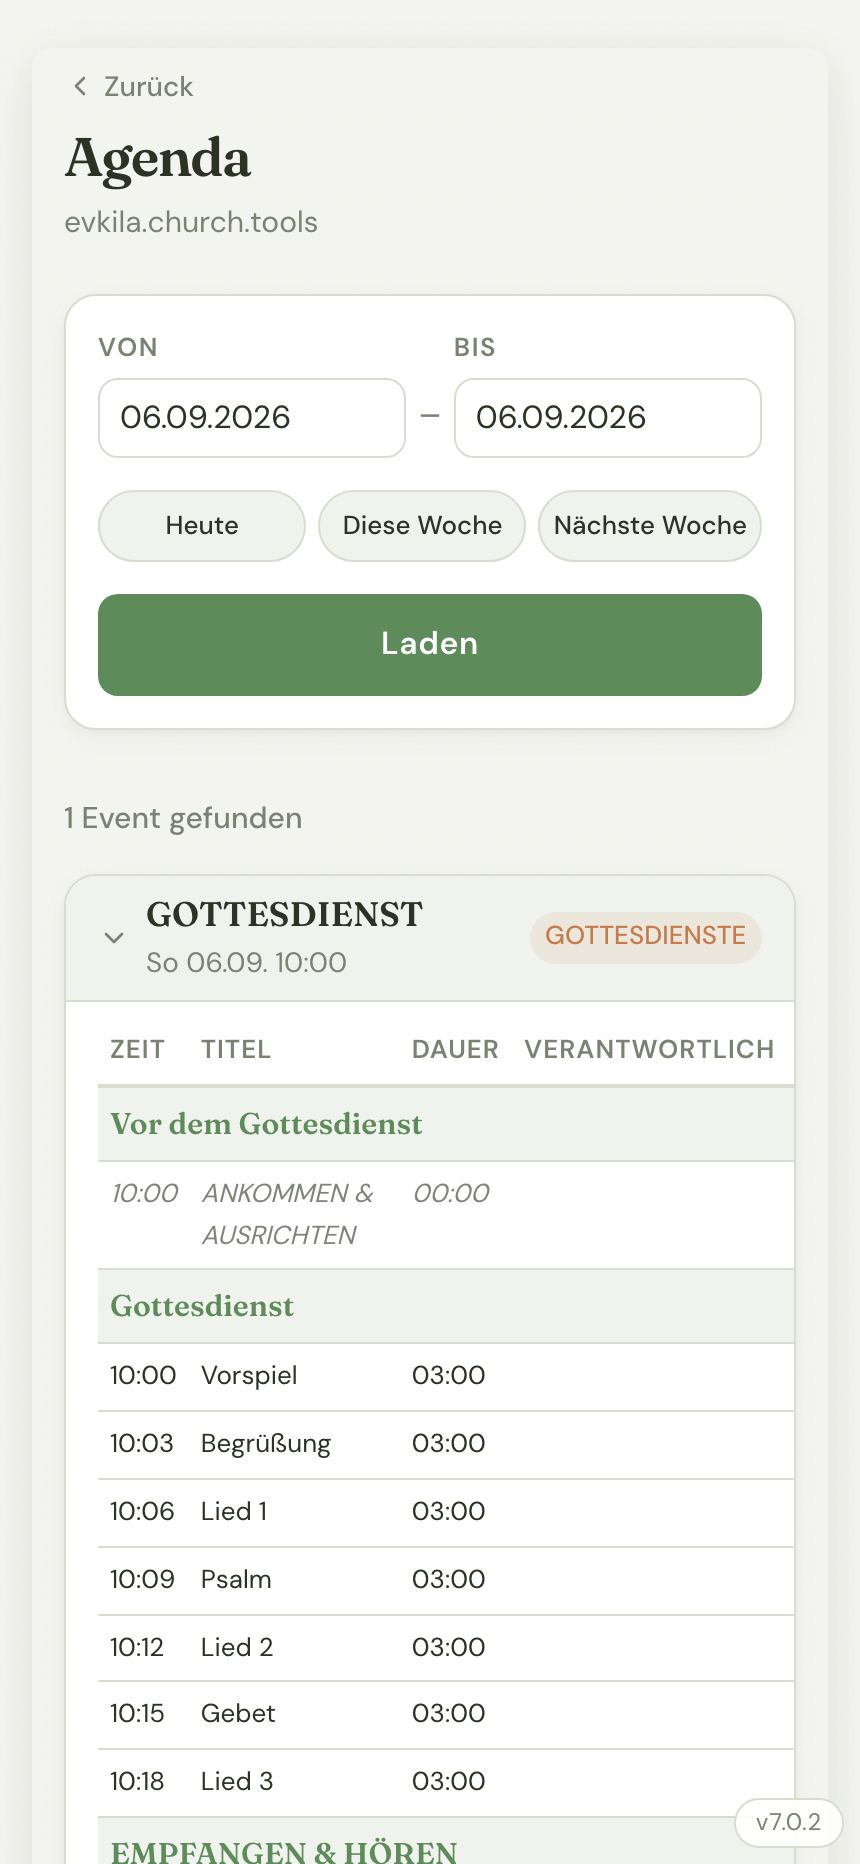
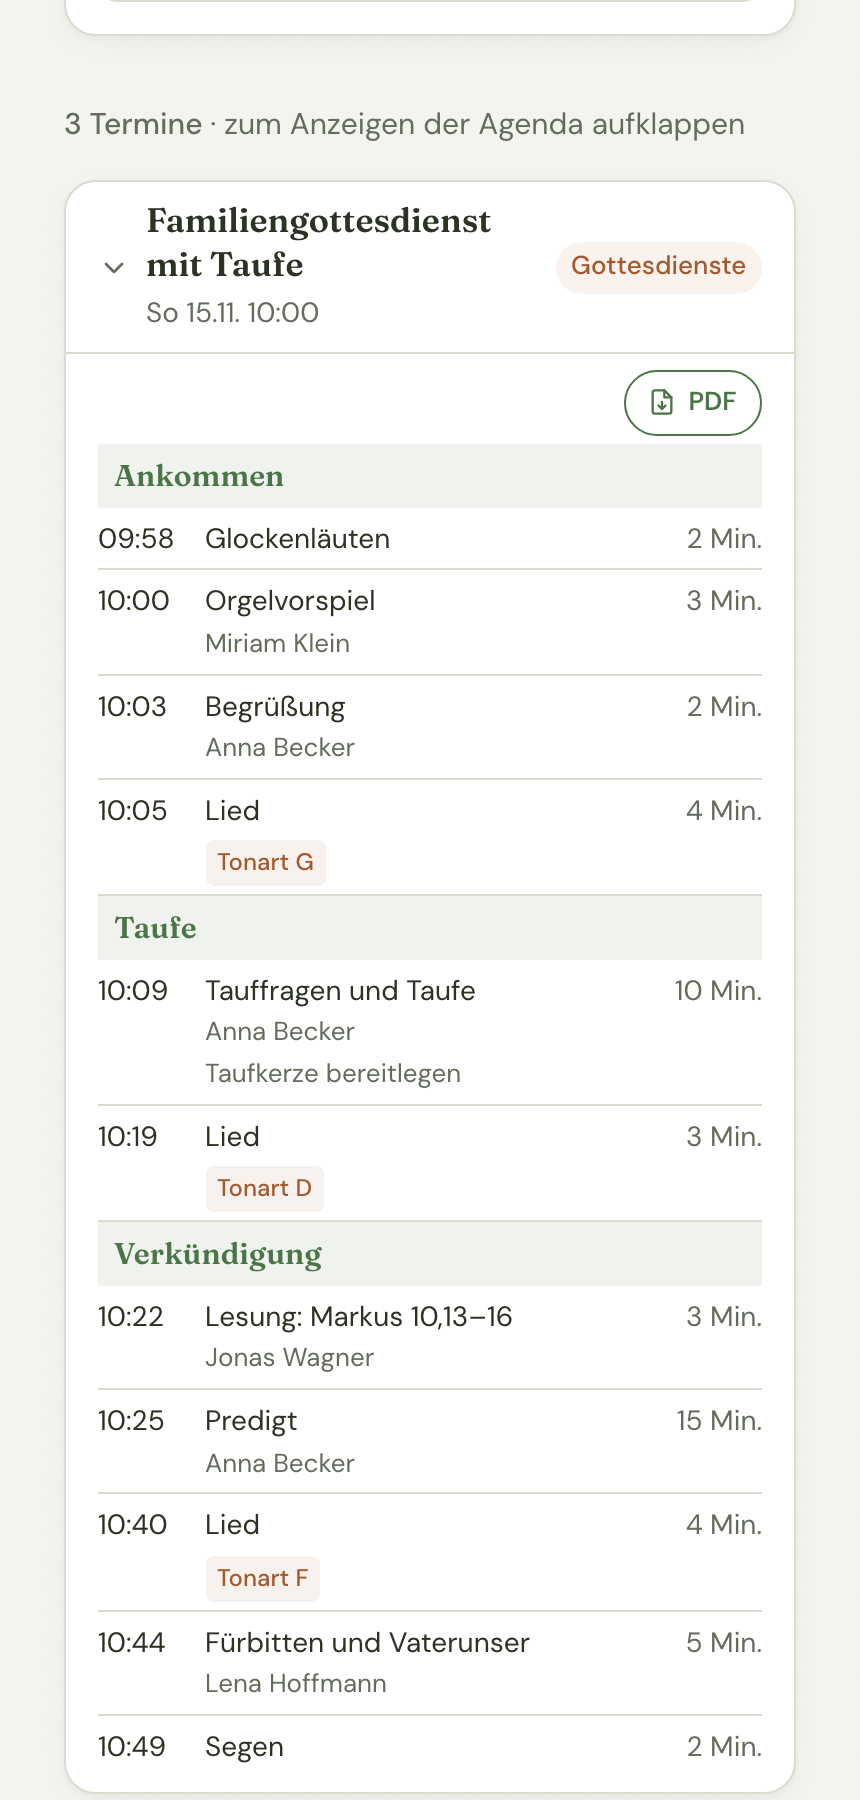
docs: restructure README, demo GIF and new screenshots from sample data
The old screenshots showed an outdated UI and real church data. The new
GIF and screenshots come from a local run against sample data, and the
example slide is readable at README size.

diff --git a/README.md b/README.md
@@ -1,30 +1,54 @@
-# ChurchTools API
+# ChurchTools Folien
 
 [![Test and Build](https://github.com/schowave/churchtools-api/actions/workflows/test-and-build.yml/badge.svg)](https://github.com/schowave/churchtools-api/actions/workflows/test-and-build.yml)
 [![Docker Image](https://img.shields.io/docker/v/schowave/churchtools?sort=semver&label=Docker%20Hub)](https://hub.docker.com/r/schowave/churchtools)
 [![Python 3.14+](https://img.shields.io/badge/python-3.14+-blue.svg)](https://www.python.org/downloads/)
 [![License](https://img.shields.io/github/license/schowave/churchtools-api)](LICENSE)
 
-A web application for creating styled announcement slides from [ChurchTools](https://www.church.tools/) calendar events — exported as PDF or JPEG for use in church services.
+Turn the appointments in your [ChurchTools](https://www.church.tools/) calendars into announcement slides for the service, and print agendas and rotas, without copying anything by hand. Log in with your ChurchTools account, pick a week and export PDF or JPEG.
 
 <p align="center">
-  <img src="docs/images/termin-folien.png" alt="Termin-Folien" width="220">
-  <img src="docs/images/agenda.png" alt="Agenda" width="220">
-  <img src="docs/images/dienstplan.png" alt="Dienstplan" width="220">
+  <img src="docs/images/demo.gif" alt="Loading a week of appointments, adding a custom text, adjusting the slide design and exporting the slides as PDF" width="580">
 </p>
-<p align="center">
-  <img src="docs/images/folie.jpg" alt="Beispiel-Folie" width="600">
-</p>
+
+## Contents
+
+- [Features](#features)
+- [Quick start](#quick-start)
+- [Configuration](#configuration)
+- [Deployment](#deployment)
+- [Security and privacy](#security-and-privacy)
+- [Development](#development)
+- [License](#license)
 
 ## Features
 
-- **Termin-Folien** — styled announcement slides from calendar appointments, exported as PDF or JPEG (ZIP), with custom colors, logo, and background image
-- **Agenda** — service rundowns (songs, items, responsible persons) per event, exportable as PDF
-- **Dienstplan** — who serves in which role per event, exportable as PDF per event
-- **Calendar selection** — choose one or more public calendars from your ChurchTools instance
+**Termin-Folien** (announcement slides). Loads the appointments of the chosen calendars and date range and lays them out as 16:9 slides, as many per slide as fit. You can:
 
+- leave out single appointments
+- replace the ChurchTools description with your own text for the slide; it is stored and comes back the next time the appointment is loaded
+- set the box, date and text colors and the box opacity, and upload a background image and a logo, with a live preview
+- export a PDF, or a ZIP with one JPEG per slide for presentation software that does not take PDFs
 
-## Quick Start
+<p align="center">
+  <img src="docs/images/folie.jpg" alt="Example slide: two appointments with date, time, place, title and description on a light box over a green background image" width="720">
+</p>
+
+**Agenda.** Shows the service rundown of each event (songs with key, items with start time, duration and responsible persons) and exports it as PDF.
+
+**Dienstplan** (rota). Shows who serves in which role per event, highlights pending and unfilled services, and exports a PDF per event.
+
+<p align="center">
+  <img src="docs/images/agenda.png" alt="Agenda page: rundown of a family service with sections, times, songs and responsible persons" width="300">
+  &nbsp;&nbsp;
+  <img src="docs/images/dienstplan.png" alt="Dienstplan page: services of two events with accepted, pending and unfilled roles" width="300">
+</p>
+
+The interface is in German and works on phones as well as on desktops.
+
+## Quick start
+
+You need a ChurchTools instance and a login for it. The app reads the public calendars of that instance and the events you have access to.
 
 ### Docker (recommended)
 
@@ -36,9 +60,11 @@ docker run -d \
   schowave/churchtools:latest
 ```
 
-Open [http://localhost:5005](http://localhost:5005)
+Open [http://localhost:5005](http://localhost:5005) and log in with your ChurchTools credentials.
 
-### From Source
+### From source
+
+Requires [mise](https://mise.jdx.dev/), which installs Python and uv.
 
 ```bash
 git clone https://github.com/schowave/churchtools-api.git
@@ -50,6 +76,8 @@ mise run run
 ```
 
 ## Configuration
+
+All settings are environment variables.
 
 | Variable | Required | Default | Description |
 |---|---|---|---|
@@ -74,23 +102,7 @@ People without access get a clear message at login; sessions of people who lose 
 
 ## Deployment
 
-### Synology NAS
-
-1. Create a project folder on your NAS (e.g. `/volume1/docker/churchtools/`)
-2. Add the `docker-compose.yml` from this repository
-3. Create a `.env` file with your configuration:
-
-   ```env
-   CHURCHTOOLS_BASE=your-instance.church.tools
-   ```
-
-4. In **Container Manager** → **Project** → **Create**, point to the folder and start
-
-The included [Watchtower](https://containrrr.dev/watchtower/) service monitors Docker Hub and automatically updates the container when a new release is published.
-
-### Other Platforms
-
-The Docker image `schowave/churchtools` is built for `linux/amd64`. It works on any x86_64 platform that supports Docker or Podman.
+The Docker image `schowave/churchtools` is built for `linux/amd64` and runs on any x86_64 host with Docker or Podman. Mount a volume at `/app/data`: it holds the database with the design settings, uploaded images and custom texts.
 
 ```yaml
 # docker-compose.yml
@@ -103,8 +115,25 @@ services:
       - ./data:/app/data
     environment:
       - CHURCHTOOLS_BASE=your-instance.church.tools
+      - DB_PATH=/app/data/churchtools.db
     restart: unless-stopped
 ```
+
+### Synology NAS
+
+1. Create a project folder on your NAS (e.g. `/volume1/docker/churchtools/`).
+2. Copy [`docker-compose.yml`](docker-compose.yml) from this repository into it.
+3. Create a `.env` file next to it:
+
+   ```env
+   CHURCHTOOLS_BASE=your-instance.church.tools
+   ```
+
+4. In **Container Manager** → **Project** → **Create**, point to the folder and start the project.
+
+### Automatic updates
+
+[`docker-compose-watchtower.yml`](docker-compose-watchtower.yml) runs [Watchtower](https://github.com/nicholas-fedor/watchtower). It checks Docker Hub every five minutes and updates containers labelled `com.centurylinklabs.watchtower.enable=true`, which the app's `docker-compose.yml` sets. New releases then go live without manual steps.
 
 ### Behind a reverse proxy
 
@@ -115,18 +144,12 @@ When the app runs behind a reverse proxy (Synology reverse proxy, Traefik, nginx
 
 Do not set `*` if port 5005 is reachable directly: clients could then fake their IP address and bypass the login rate limit.
 
-The container starts as root only to hand the data volume to the unprivileged `app` user, then runs the app as that user.
+## Security and privacy
 
-## Releases
-
-Releases are managed via GitHub Actions:
-
-1. Go to **Actions** → **Release** → **Run workflow**
-2. Either enter a version number (e.g. `3.1.0`) or leave empty to auto-increment the patch version (e.g. `3.0.2` → `3.0.3`)
-3. The workflow runs tests, updates `pyproject.toml`, creates a git tag, builds the Docker image (linux/amd64), and pushes to Docker Hub
-4. Watchtower picks up the new image automatically on connected hosts
-
-> Requires GitHub Secrets: `DOCKERHUB_USERNAME` and `DOCKERHUB_TOKEN`
+- The app logs in against your ChurchTools instance; it has no user accounts of its own. The ChurchTools login token stays on the server, encrypted with a key that only the user's session cookie can unlock.
+- Every page is served with a strict Content Security Policy, and fonts are self-hosted, so visitors' browsers contact no third parties.
+- The container starts as root only to hand the data volume to the unprivileged `app` user, then runs the app as that user.
+- Each release image is scanned with [trivy](https://trivy.dev/) before it is pushed to Docker Hub.
 
 ## Development
 
@@ -155,3 +178,16 @@ Local JPEG export needs poppler (`brew install poppler` / `apt install poppler-u
 Dependencies are declared in `pyproject.toml`. After changing them, run `mise run lock` so the Docker image picks up the new pins.
 
 CI runs lint, tests, the dependency audit, and the image scan on every push to `main` and on pull requests.
+
+### Releasing
+
+1. Go to **Actions** → **Release** → **Run workflow**.
+2. Enter a version number (e.g. `3.1.0`), or leave it empty to increment the patch version (e.g. `3.0.2` → `3.0.3`).
+3. The workflow runs lint, tests and the dependency audit, updates `pyproject.toml`, builds, smoke-tests and scans the Docker image (linux/amd64), and only then creates the git tag, pushes the image to Docker Hub and creates the GitHub release.
+4. Watchtower picks up the new image on connected hosts.
+
+The workflow needs the GitHub secrets `DOCKERHUB_USERNAME` and `DOCKERHUB_TOKEN`.
+
+## License
+
+[Apache License 2.0](LICENSE)
